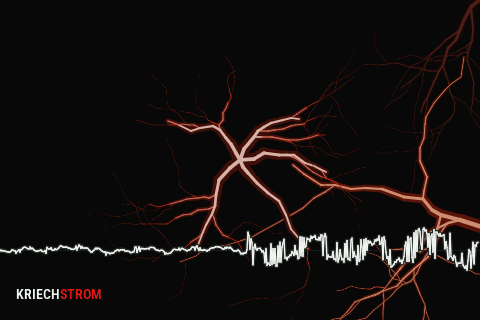
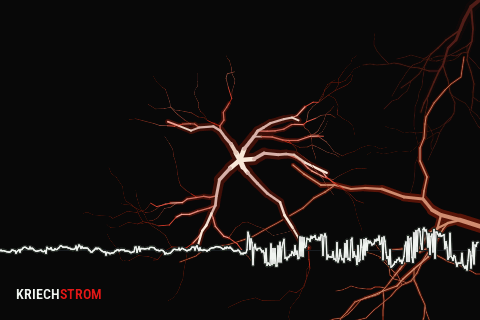
0.5.14: the figure lives (branches trembling, current running out on the kicks); the stage's PLAY / STOP and MOOD as buttons

diff --git a/kriechstrom/kx_wear.h b/kriechstrom/kx_wear.h
@@ -158,10 +158,21 @@ static void kx_big_grow(void)
     }
     kx_big_t0 = vibe_frames() ? vibe_frames() : 1;
 }
+/* the figure alive: every point of it trembles as an arc does (a smooth noise of where it is and of the time, the
+ * tips more than the trunk; a point two branches share moves as one, so nothing comes apart), and current runs out
+ * along it from the centre, a wave on every kick */
+static void kx_big_pt_at(float x, float y, float t, float rr, float *ox, float *oy)
+{
+    float dx = x - 240.0f, dy = y - 160.0f, d = vd_sqrt(dx * dx + dy * dy), k = d / (rr > 1.0f ? rr : 1.0f) * 3.2f;
+    *ox = x + vd_sin(t * 0.9f + x * 0.031f + y * 0.017f) * k + vd_sin(t * 2.3f + y * 0.05f) * k * 0.4f;
+    *oy = y + vd_sin(t * 0.7f + y * 0.029f - x * 0.021f + 0.3f) * k + vd_sin(t * 2.1f + x * 0.05f + 0.6f) * k * 0.4f;
+}
 static void kx_big_draw_at(float heat, float hit, float ox, float oy, float sc)   /* (the stage: elsewhere, bigger) */
 {
     int j, pass, n = kx_big_n;
-    float g = (float)(vibe_frames() - kx_big_t0) / (kx_sr * 0.22f), reach;
+    float g = (float)(vibe_frames() - kx_big_t0) / (kx_sr * 0.22f), reach, t = (float)vibe_frames() / kx_sr;
+    float rr = vd_sqrt(kx_big_r2), kick = (float)(vibe_frames() - kx_big_pt) / kx_sr, wave_k = kick * 420.0f;
+    float wave = (t * 0.55f - (float)(int)(t * 0.55f)) * rr * 1.3f;  /* (the current's slow wave, out and out again) */
     g = g > 1.0f ? 1.0f : g;
     reach = g * (2.0f - g);                       /* (out from the centre, every arm at once, fast then slowing) */
     reach = reach * reach * kx_big_r2;
@@ -170,21 +181,32 @@ static void kx_big_draw_at(float heat, float hit, float ox, float oy, float sc) 
     for (pass = 0; pass < 2; pass++) {
         for (j = 0; j < n; j++) {
             const lt_seg *s2 = &kx_big[j];
-            float ddx = (float)s2->x1 - 240.0f, ddy = (float)s2->y1 - 160.0f, d2 = ddx * ddx + ddy * ddy;
+            float ddx = (float)s2->x1 - 240.0f, ddy = (float)s2->y1 - 160.0f, d2 = ddx * ddx + ddy * ddy, d, run, x0, y0, x1, y1;
             if (g < 1.0f && d2 > reach)
                 continue;
             float w = (float)s2->w * 0.25f;
+            if (!pass && w < 0.9f)
+                continue;
+            d = vd_sqrt(d2);
+            if (sc > 1.0f && d * sc > 100.0f)     /* (the stage: inside the sound's ring only) */
+                continue;
+            run = 1.0f - vd_minf((d - wave < 0.0f ? wave - d : d - wave) / 26.0f, 1.0f);   /* (the slow current here) */
+            if (kx_big_pt && kick < 0.6f) {       /* (a kick's wave, faster, hotter) */
+                float kk = 1.0f - vd_minf((d - wave_k < 0.0f ? wave_k - d : d - wave_k) / 18.0f, 1.0f);
+                run = vd_minf(1.0f, run * 0.5f + kk * kx_big_pulse * (1.0f - kick / 0.6f) * 1.4f);
+            } else
+                run *= 0.5f;
             /* (red, its thick strands hot as the site's core, the thinnest dark; the growing tip brighter) */
-            float t = w > 1.6f ? 0.55f + 0.35f * hit : w > 0.9f ? 0.15f + 0.3f * hit : 0.0f;
-            uint32_t c = pass ? vg_mix(w > 0.6f ? 0xE02414 : 0x7A160C, 0xFFE8DC, t + 0.1f * heat)
+            float tt = (w > 1.6f ? 0.55f + 0.35f * hit : w > 0.9f ? 0.15f + 0.3f * hit : 0.0f) + 0.5f * run;
+            uint32_t c = pass ? vg_mix(w > 0.6f ? 0xE02414 : 0x7A160C, 0xFFE8DC, vd_minf(tt + 0.1f * heat, 1.0f))
                               : vg_mix(C_BG, 0x5A140C, 0.5f + 0.5f * hit);
             if (pass && g < 1.0f && d2 > reach * 0.8f)   /* (the growing tips, white hot) */
                 c = vg_mix(c, 0xFFF0E8, 0.6f);
-            c = vg_mix(C_BG, c, pass ? 0.5f + 0.5f * hit : 0.3f + 0.7f * hit);   /* (it breathes with the hits) */
-            if (!pass && w < 0.9f)
-                continue;
-            vg_line(ox + ((float)s2->x0 - 240.0f) * sc, oy + ((float)s2->y0 - 160.0f) * sc, ox + ((float)s2->x1 - 240.0f) * sc,
-                    oy + ((float)s2->y1 - 160.0f) * sc, (pass ? w : w * 3.0f + 1.0f) * (sc > 1.0f ? sc * 0.7f : 1.0f), c);
+            c = vg_mix(C_BG, c, pass ? vd_minf(0.5f + 0.5f * hit + 0.4f * run, 1.0f) : 0.3f + 0.7f * hit);   /* (it breathes) */
+            kx_big_pt_at((float)s2->x0, (float)s2->y0, t, rr, &x0, &y0);
+            kx_big_pt_at((float)s2->x1, (float)s2->y1, t, rr, &x1, &y1);
+            vg_line(ox + (x0 - 240.0f) * sc, oy + (y0 - 160.0f) * sc, ox + (x1 - 240.0f) * sc, oy + (y1 - 160.0f) * sc,
+                    (pass ? w * (1.0f + 0.6f * run) : w * 3.0f + 1.0f) * (sc > 1.0f ? sc * 0.7f : 1.0f), c);
         }
     }
 }

diff --git a/kriechstrom/kx_stage.h b/kriechstrom/kx_stage.h
@@ -159,7 +159,7 @@ static void st_ring(uint32_t k)                   /* a track's steps round its r
 static void st_track_card(uint32_t k)            /* the left band: a track */
 {
     const track_t *t = &trk[k];
-    int y = 150 + (int)k * 120, mute = t->p[P_MUTE] != 0, lv;
+    int y = 168 + (int)k * 120, mute = t->p[P_MUTE] != 0, lv;
     uint32_t col = TRK_RGB[k];
     char nm[17], n[2] = {(char)('1' + k), 0};
     vg_round(16, y, SB_LW - 28, 110, 6, k == song.sel ? vg_mix(0x141416, col, 0.16f) : 0x141416);
@@ -371,11 +371,22 @@ void vibe_on_stage(uint16_t *fb, int w, int h)
         int bw = vg_text(b, 20, 72, VG_BIG | VG_X2, C_WHITE, VG_LEFT);
         vg_text("BPM", 26 + bw, 92, VG_BOLD, TE_MID, VG_LEFT);
     }
-    if (song.playing)
-        vg_tri(SB_LW - 60, 76, SB_LW - 60, 116, SB_LW - 26, 96, C_RED);
-    else
-        vg_rect(SB_LW - 60, 78, 36, 36, 0x5A5A60);
-    vg_text(MOOD_NAME[dice_mood % MOOD_N], SB_LW - 74, 92, VG_BOLD, TE_MID, VG_RIGHT);
+    {   /* the transport: a button that says what it does */
+        int bx = SB_LW - 124, by = 74;
+        vg_round(bx, by, 106, 42, 6, song.playing ? 0x2A2A30 : C_RED);
+        if (song.playing)
+            vg_rect(bx + 14, by + 13, 16, 16, C_WHITE), vg_text("STOP", bx + 40, by + 12, VG_BOLD, C_WHITE, VG_LEFT);
+        else
+            vg_tri((float)(bx + 14), (float)(by + 11), (float)(bx + 14), (float)(by + 31), (float)(bx + 31), (float)(by + 21), C_WHITE),
+            vg_text("PLAY", bx + 40, by + 12, VG_BOLD, C_WHITE, VG_LEFT);
+    }
+    {   /* DICE's MOOD: a button, the next one on a click */
+        int by = 126;
+        vg_round(16, by, SB_LW - 34, 32, 5, 0x1A1A1E);
+        vg_text("DICE MOOD", 28, by + 8, VG_SMALL, TE_MID, VG_LEFT);
+        vg_text(MOOD_NAME[dice_mood % MOOD_N], 120, by + 7, VG_BOLD, C_WHITE, VG_LEFT);
+        vg_text("NEXT >", SB_LW - 30, by + 8, VG_SMALL, C_RED, VG_RIGHT);
+    }
     for (k = 0; k < NTRK; k++)
         st_track_card(k);
     for (k = 0; k < SK_N; k++)
@@ -458,7 +469,7 @@ static void kx_stage_event(const vibe_event *e)
             st_bpm(d), st_ptr_y[p] = y;
         return;
     }
-    if (e->id == VIBE_STAGE_WHEEL && x < 160 && y >= 70 && y < 130) {
+    if (e->id == VIBE_STAGE_WHEEL && x < 180 && y >= 70 && y < 120) {
         st_bpm(e->value > 0 ? 1 : -1);
         return;
     }
@@ -482,21 +493,21 @@ static void kx_stage_event(const vibe_event *e)
         return;
     }
     if (x < SB_LW) {                              /* the left band: play, the tempo, the MOOD, a track, its M */
-        if (y >= 70 && y < 130 && x >= SB_LW - 70) {
+        if (y >= 70 && y < 120 && x >= SB_LW - 126) {
             kx_post(KXC_PLAY, 3, 0, 0, 0);
             return;
         }
-        if (y >= 70 && y < 130 && x < 160) {      /* the tempo: drag it, or the wheel */
+        if (y >= 70 && y < 120 && x < 180) {      /* the tempo: drag it, or the wheel */
             st_ptr[p] = 400, st_ptr_y[p] = y;
             return;
         }
-        if (y >= 70 && y < 130) {                 /* the MOOD for DICE: the next */
+        if (y >= 124 && y < 160) {                /* the MOOD for DICE: the next */
             kx_post(KXC_TOOL, song.sel, TL_MOOD, 0, 0);
             return;
         }
-        if (y >= 150 && y < 150 + 4 * 120) {
-            uint32_t k = (uint32_t)(y - 150) / 120;
-            int ly = y - 150 - (int)k * 120;
+        if (y >= 168 && y < 168 + 4 * 120) {
+            uint32_t k = (uint32_t)(y - 168) / 120;
+            int ly = y - 168 - (int)k * 120;
             if (ly >= 110)
                 return;
             if (x >= SB_LW - 62 && x < SB_LW - 22 && ly >= 70 && ly < 100)

diff --git a/kriechstrom/kx_hal.h b/kriechstrom/kx_hal.h
@@ -17,7 +17,7 @@ char *strchr(const char *s, int c);
 #endif
 #define FELUCCA_CDC 0
 #define FELUCCA_FLASH 0
-#define FELUCCA_VERSION "0.5.13"
+#define FELUCCA_VERSION "0.5.14"
 #define FM1_TICKS_PER_US 1u
 #define FM1_NCOL 11u
 #define __attribute__(x)

diff --git a/CHANGELOG.md b/CHANGELOG.md
@@ -5,6 +5,15 @@ All notable changes to KRIECHSTROM for VIBE FM. The format follows
 
 ## [Unreleased]
 
+## [0.5.14] - 2026-11-24
+
+On KRIECHSTROM 0.5.2 for the FM-1.
+
+### Changed
+- the figure lives: every branch trembles as an arc does (the tips more than the trunk, never coming apart) and current
+  runs out along it, a hot wave on every kick; on the stage and on the idle screen
+- the stage's transport is a button that says PLAY or STOP, DICE's MOOD a button of its own with NEXT on it
+
 ## [0.5.13] - 2026-11-24
 
 On KRIECHSTROM 0.5.2 for the FM-1.

diff --git a/docs/release-0.5.14.md b/docs/release-0.5.14.md
@@ -1,0 +1,8 @@
+KRIECHSTROM for VIBE FM 0.5.14, on KRIECHSTROM 0.5.2 for the FM-1.
+
+- the figure lives: its branches tremble as arcs do and current runs out along them, a hot wave on every kick (the
+  stage and the idle screen)
+- on the stage: PLAY / STOP and DICE's MOOD as buttons that say what they do
+
+Files: `kriechstrom.wasm` (the Playground: Load your own .wasm, or drop it onto the device), `kriechstrom.zip`
+(the VIBE FM plugin: drop it onto its window). The source is this tag; `git clone --recursive` brings KRIECHSTROM's core with it.
